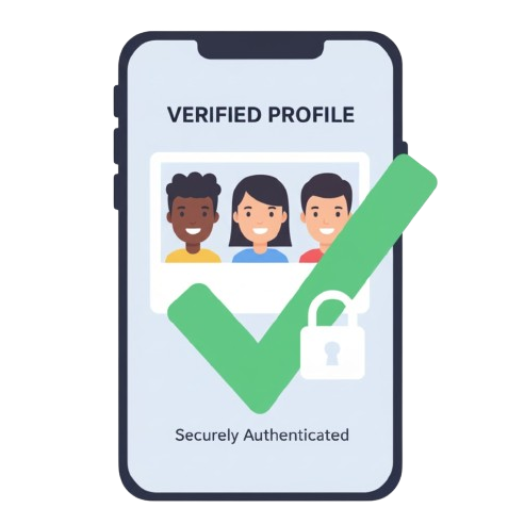
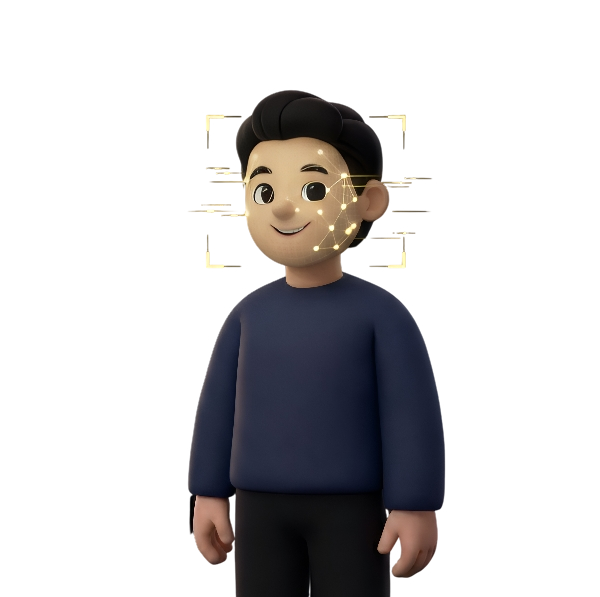
refinement to the final version

diff --git a/lib/screens/settings_screen.dart b/lib/screens/settings_screen.dart
@@ -187,6 +187,24 @@ class SettingsScreen extends StatelessWidget {
                 onPressed: () => _handleLogout(context, authProvider),
               ),
             ),
+            const SizedBox(height: 16),
+
+            // Delete Account Button
+            Center(
+              child: TextButton(
+                onPressed: () => _handleDeleteAccount(context, authProvider),
+                style: TextButton.styleFrom(
+                  foregroundColor: PrismColors.destructiveRed,
+                ),
+                child: Text(
+                  'Delete Account',
+                  style: PrismTextStyles.bodyMedium.copyWith(
+                    color: PrismColors.destructiveRed,
+                    fontWeight: FontWeight.w600,
+                  ),
+                ),
+              ),
+            ),
             const SizedBox(height: 24),
           ],
         ),
@@ -222,6 +240,64 @@ class SettingsScreen extends StatelessWidget {
           ErrorHandler.showErrorSnackbar(
             context,
             message: 'Failed to logout. Please try again.',
+          );
+        }
+      }
+    }
+  }
+
+  Future<void> _handleDeleteAccount(
+    BuildContext context,
+    AuthProvider authProvider,
+  ) async {
+    HapticFeedback.selectionClick();
+
+    final confirmed = await ErrorHandler.showConfirmationDialog(
+      context,
+      title: 'Delete Account',
+      message:
+          'Are you sure you want to delete your account? This action cannot be undone.',
+      confirmText: 'Delete',
+      isDestructive: true,
+    );
+
+    if (confirmed == true && context.mounted) {
+      HapticFeedback.heavyImpact();
+      try {
+        // Just logout for now as per requirements
+        await authProvider.logout(context);
+
+        if (context.mounted) {
+          // Navigate to onboarding first
+          Navigator.of(
+            context,
+          ).pushNamedAndRemoveUntil('/onboarding', (route) => false);
+
+          // Show snackbar
+          ScaffoldMessenger.of(context).showSnackBar(
+            SnackBar(
+              content: Text(
+                'Your account is deleted',
+                style: PrismTextStyles.bodyMedium.copyWith(
+                  color: PrismColors.white,
+                ),
+              ),
+              backgroundColor: PrismColors.voidBlack,
+              behavior: SnackBarBehavior.floating,
+              shape: RoundedRectangleBorder(
+                borderRadius: BorderRadius.circular(8),
+                side: BorderSide(
+                  color: PrismColors.white.withValues(alpha: 0.1),
+                ),
+              ),
+            ),
+          );
+        }
+      } catch (e) {
+        if (context.mounted) {
+          ErrorHandler.showErrorSnackbar(
+            context,
+            message: 'Failed to delete account. Please try again.',
           );
         }
       }

diff --git a/lib/services/database_service.dart b/lib/services/database_service.dart
@@ -20,9 +20,10 @@ class DatabaseService {
 
     return await openDatabase(
       path,
-      version: 5,
+      version: 6,
       onCreate: _createDB,
       onUpgrade: _onUpgrade,
+      onOpen: _onOpen,
     );
   }
 
@@ -58,6 +59,14 @@ class DatabaseService {
         cached_at INTEGER NOT NULL
       )
     ''');
+
+    await db.execute('''
+      CREATE TABLE IF NOT EXISTS gallery_saves (
+        image_id TEXT PRIMARY KEY,
+        saved_at TEXT NOT NULL,
+        gallery_path TEXT NOT NULL
+      )
+    ''');
   }
 
   Future<void> _onUpgrade(Database db, int oldVersion, int newVersion) async {
@@ -90,6 +99,28 @@ class DatabaseService {
         )
       ''');
     }
+    if (oldVersion < 6) {
+      // gallery_saves was previously only in _createDB (fresh installs) but
+      // existing users at v5 never had it created. This ensures all devices get it.
+      await db.execute('''
+        CREATE TABLE IF NOT EXISTS gallery_saves (
+          image_id TEXT PRIMARY KEY,
+          saved_at TEXT NOT NULL,
+          gallery_path TEXT NOT NULL
+        )
+      ''');
+    }
+  }
+
+  /// Called every time the DB is opened — safety net for gallery_saves.
+  Future<void> _onOpen(Database db) async {
+    await db.execute('''
+      CREATE TABLE IF NOT EXISTS gallery_saves (
+        image_id TEXT PRIMARY KEY,
+        saved_at TEXT NOT NULL,
+        gallery_path TEXT NOT NULL
+      )
+    ''');
   }
 
   /// Save user session to database
@@ -306,7 +337,11 @@ class DatabaseService {
     final db = await database;
     await db.delete('user_session');
     await db.delete('gallery_cache');
-    await db.delete('gallery_saves');
+    try {
+      await db.delete('gallery_saves');
+    } catch (_) {
+      // Table may not exist on older app versions before migration
+    }
   }
 
   // ==================== GALLERY SAVES TRACKING ====================
@@ -419,7 +454,11 @@ class DatabaseService {
   /// Clear all gallery saves
   Future<void> clearGallerySaves() async {
     final db = await database;
-    await db.delete('gallery_saves');
+    try {
+      await db.delete('gallery_saves');
+    } catch (_) {
+      // Table may not exist on older app versions before migration
+    }
   }
 
   /// Close database

diff --git a/lib/widgets/prism_media_preview.dart b/lib/widgets/prism_media_preview.dart
@@ -127,9 +127,15 @@ class _PrismMediaPreviewState extends State<PrismMediaPreview> {
   }
 
   Widget _buildImagePreview() {
+    // Use path-only as cache key so presigned URLs (which change query params
+    // each time) still hit the disk cache correctly.
+    final uri = Uri.tryParse(widget.imageUrl);
+    final cacheKey = uri != null ? uri.path : widget.imageUrl;
+
     return CachedNetworkImage(
       imageUrl: widget.imageUrl,
-      httpHeaders: widget.httpHeaders, // Pass headers
+      cacheKey: cacheKey,
+      httpHeaders: widget.httpHeaders,
       width: widget.width,
       height: widget.height,
       fit: widget.fit,
@@ -150,6 +156,12 @@ class _PrismMediaPreviewState extends State<PrismMediaPreview> {
           debugPrint(
             'ImageDecoder error detected - likely unsupported format (AVIF on Android <12, corrupted data, etc.)',
           );
+        }
+        // If we get a 403 (expired presigned URL), evict from cache so the
+        // next load fetches a fresh URL rather than replaying the stale one.
+        if (error.toString().contains('403') ||
+            error.toString().contains('Invalid statusCode: 403')) {
+          CachedNetworkImage.evictFromCache(cacheKey);
         }
       },
       placeholder: (context, url) => _buildPlaceholder(isLoading: true),

diff --git a/lib/screens/onboarding_screen.dart b/lib/screens/onboarding_screen.dart
@@ -22,21 +22,21 @@ class _OnboardingScreenState extends State<OnboardingScreen> {
   final List<Map<String, String>> _pages = [
     {
       'image': 'assets/Images/onboarding1.png',
-      'title': 'Your Gallery,\nSmarter.',
+      'title': "Group photos shouldn’t feel like work.",
       'description':
-          'AI-powered organization for your chaotic gallery. Finding memories has never been this smooth.',
+          '',
     },
     {
       'image': 'assets/Images/onboarding2.png',
-      'title': 'Share in\nSeconds.',
+      'title': 'Trust built into every share.',
       'description':
-          'Instant, intelligent sharing with the people who matter most. No clutter, just vibes.',
+          '',
     },
     {
       'image': 'assets/Images/onboarding3.png',
-      'title': 'Private &\nProtected.',
+      'title': 'Finally, sharing done right.',
       'description':
-          'Your moments stay yours. Zero risk, 100% control over who sees what.',
+          '',
     },
   ];
 

diff --git a/lib/widgets/animated_image_loader.dart b/lib/widgets/animated_image_loader.dart
@@ -54,10 +54,16 @@ class AnimatedImageLoader extends StatelessWidget {
     }
 
     // Handle network image
+    // Use path-only as cache key so presigned URLs (which change query params
+    // each time) still hit the disk cache correctly.
+    final uri = Uri.tryParse(imageUrl!);
+    final cacheKey = uri != null ? uri.path : imageUrl!;
+
     return ClipRRect(
       borderRadius: radius,
       child: CachedNetworkImage(
         imageUrl: imageUrl!,
+        cacheKey: cacheKey,
         width: width,
         height: height,
         fit: fit,
